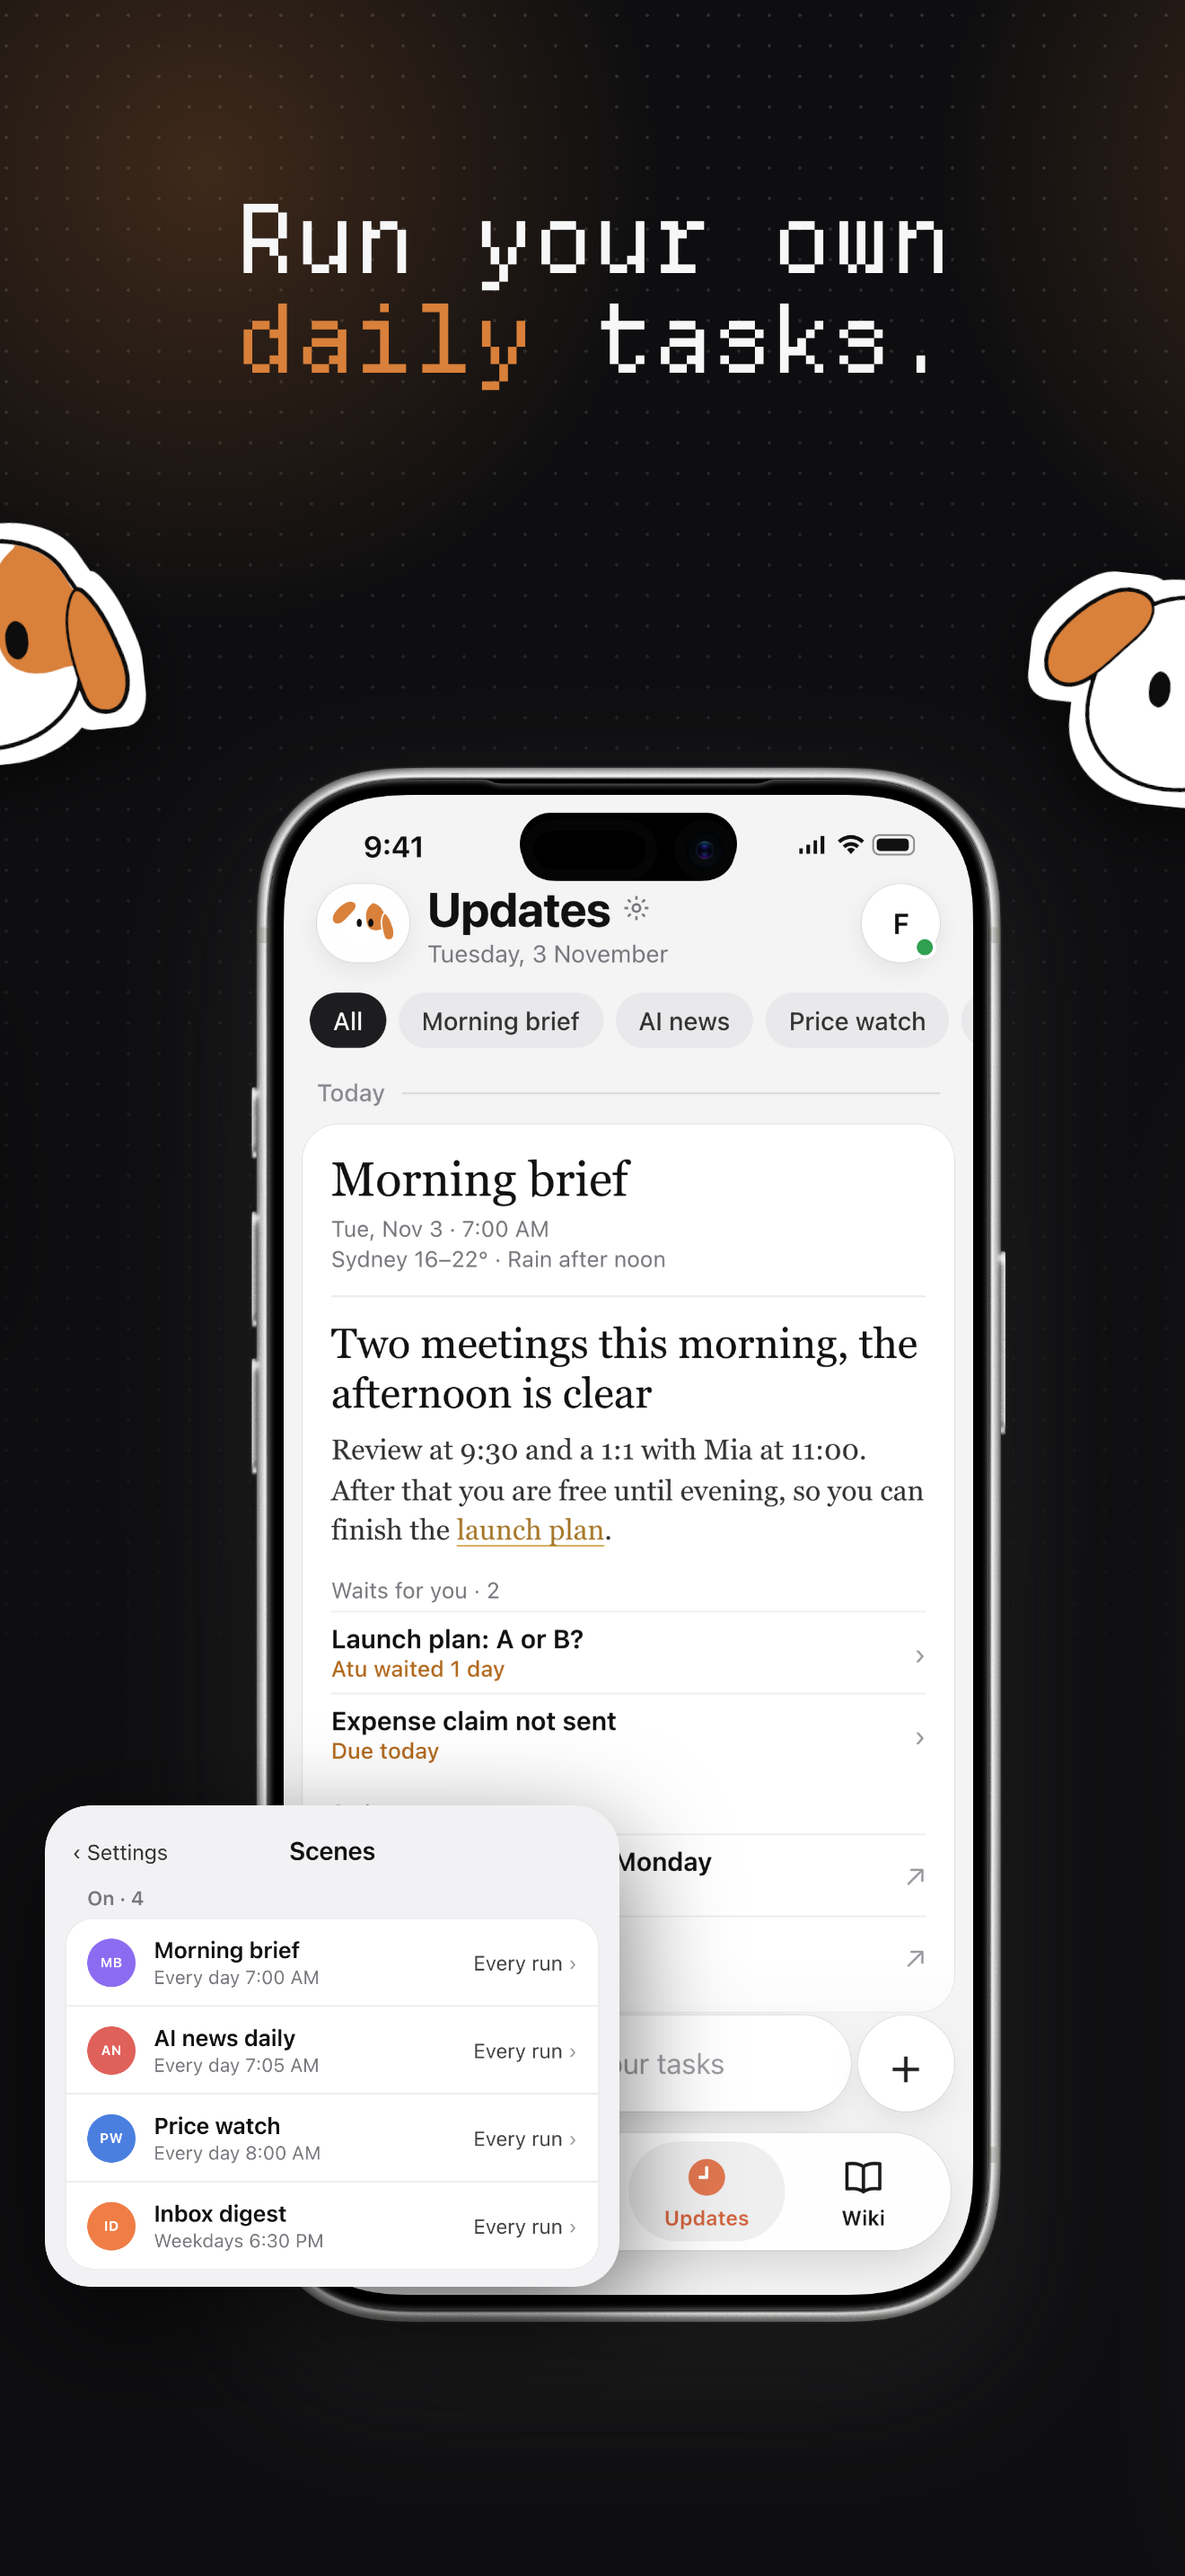
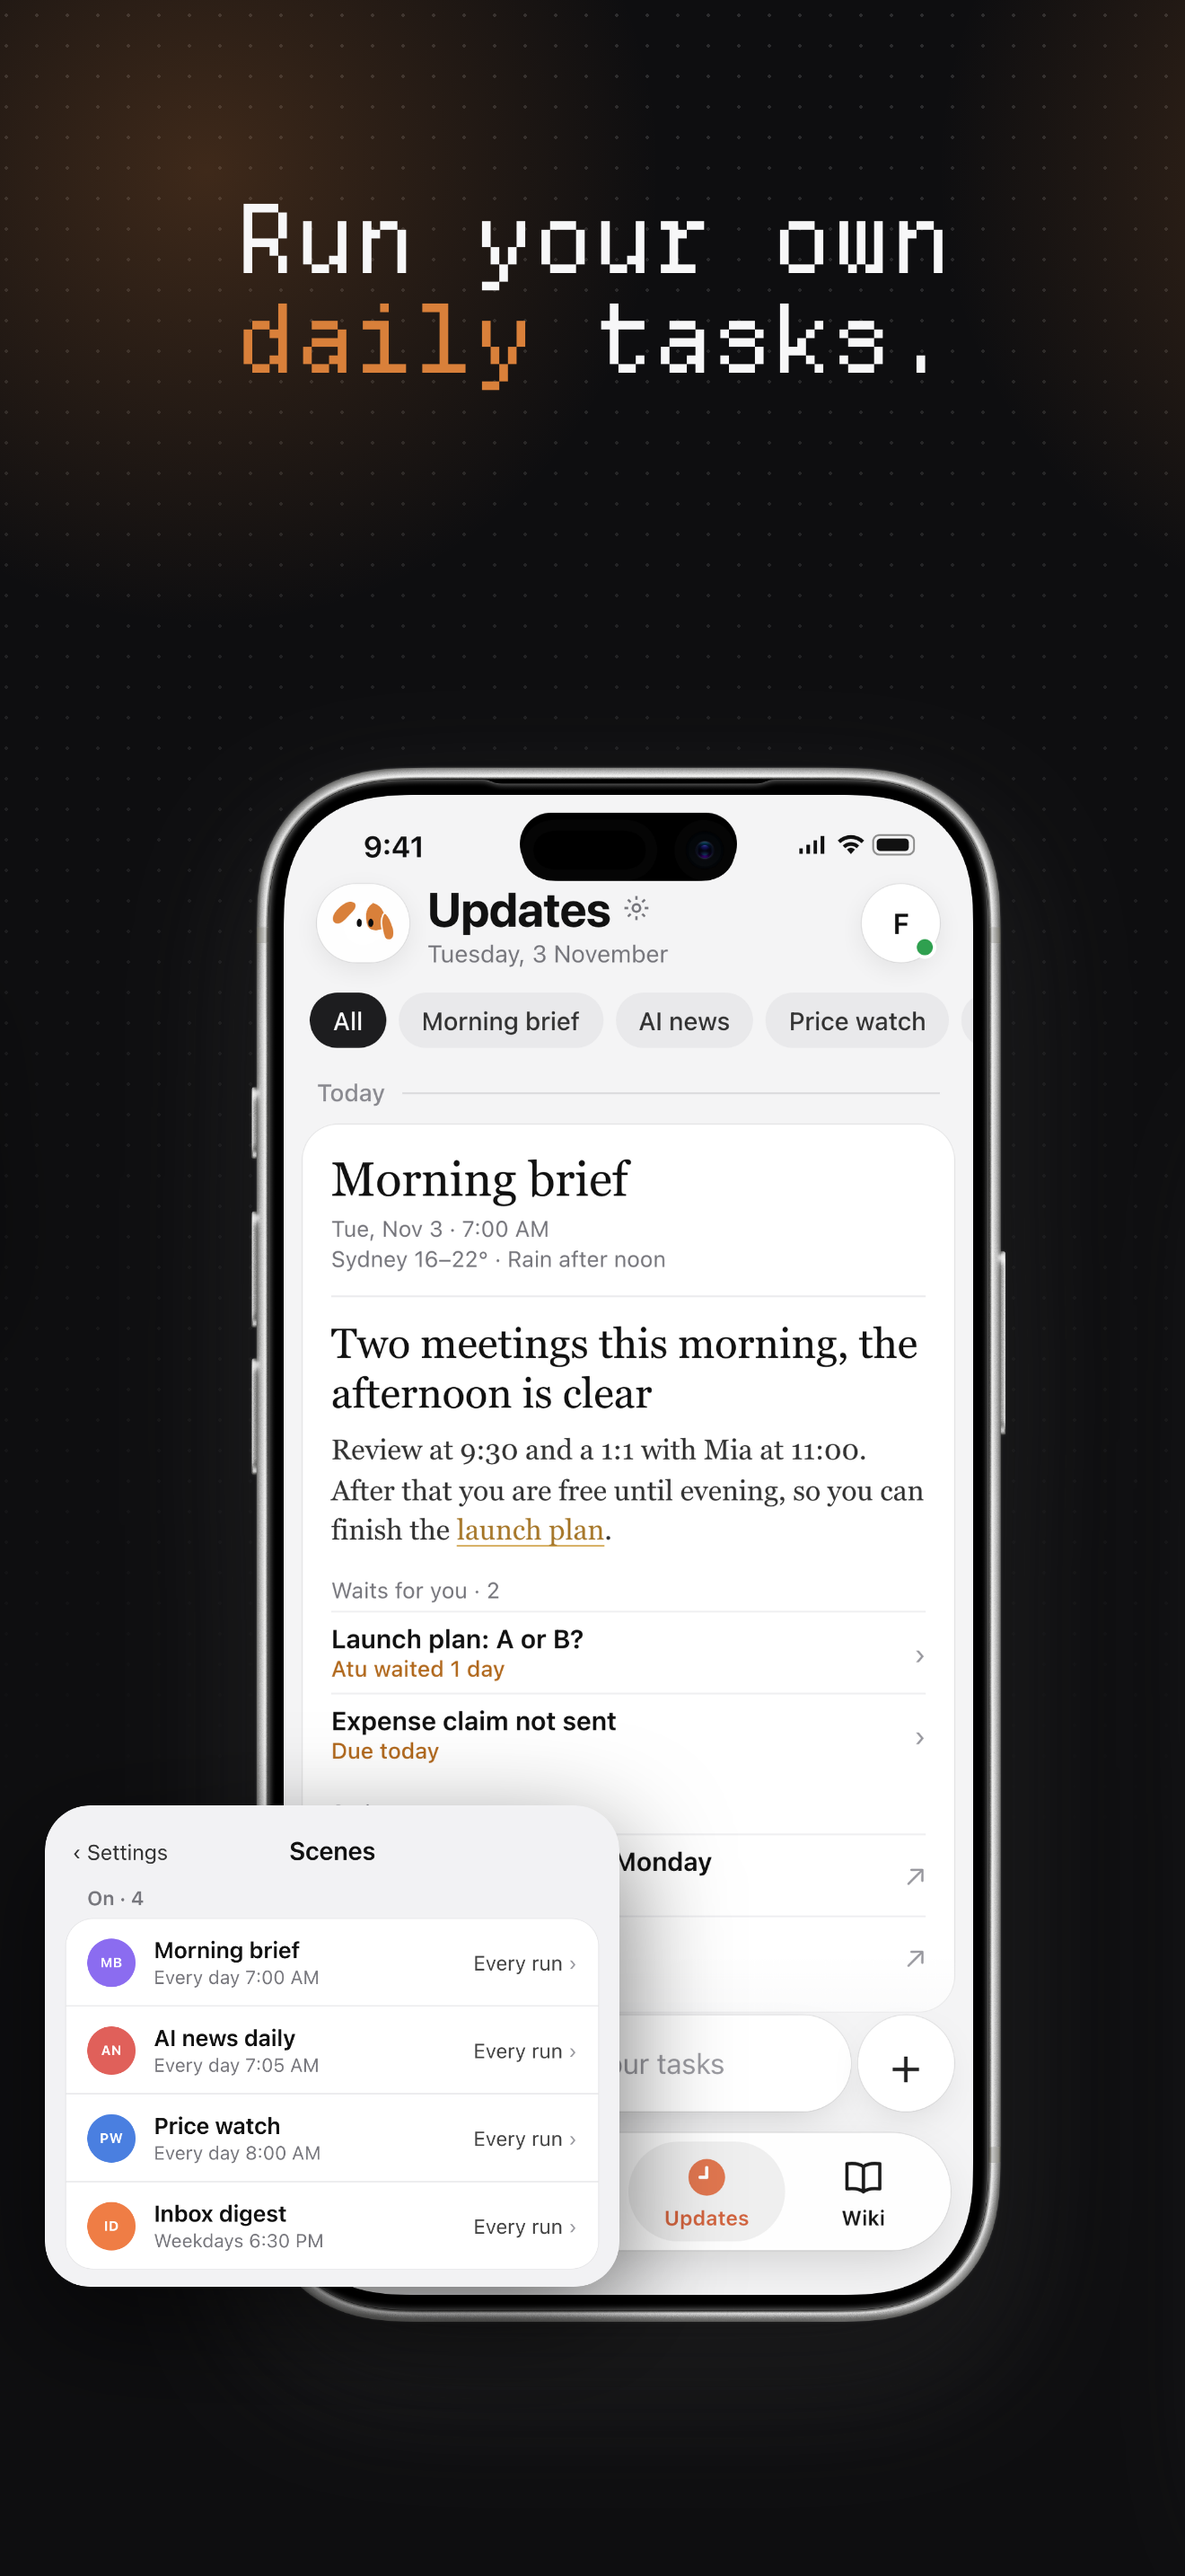
brand: App Store iPhone set without the Atu heads across the cuts of pages 4-6

Changed region(s): [[0.8697, 0.2172, 1.0, 0.3414], [0.0, 0.1862, 0.1242, 0.3103]]

diff --git a/brand/hey-atu-brand-kit/09-generator/appstore-v2/compose_c.py b/brand/hey-atu-brand-kit/09-generator/appstore-v2/compose_c.py
@@ -208,8 +208,8 @@ P7 = ''.join([
     watchs('reply', k + 965, 2320, 540),
 ])
 
-# ---- stickers across cuts (small turns only) ----------------------------------------------
-STICK = ''.join([logo(4 * W - 180, 600, 320, -6), logo(5 * W - 160, 660, 300, 6)])
+# ---- stickers across cuts: none ----------------------------------------------------------
+STICK = ''   # no Atu heads across the cuts (Xinyi 2026-11-08); was logo() at 4W-180 and 5W-160
 
 CSS = f'''
 @font-face{{font-family:"Departure Mono";src:url("{KIT}/07-fonts-and-tokens/fonts/DepartureMono-Regular.ttf")}}

diff --git a/docs/app-store-screenshots/README.md b/docs/app-store-screenshots/README.md
@@ -353,7 +353,7 @@ CapWords 当前第 1 张的文案是 `Learn to speak a new language`，和你截
 | 设备模型（第三轮，弃用） | 第 1 张 3D 手机，第 2 张自己画的 Mac 和设计稿手表，第 4 张宇宙橙边框（侧键看起来像虚线），风格不统一 |
 | 手机模型（上一版） | three.js 渲染的立体 iPhone：银色金属边框（带倒角和厚度）、侧键、黑边、淡淡的玻璃反光，带透视角度。第一版是平面圆角框，Xinyi 觉得不如 Otter 好看，已替换。脚本当时在临时目录（`src/phone3d.html`），没有保留；现在的 3D 手机用 `phone3d-glb.html` |
 | 三端 | 手机左倾 9°、向右转 22°（露出左侧按键）；功能页的手机左右小角度转向；Mac 水平，屏幕里是桌面端设计稿；手表右倾 8°。方案 B 的两块手表一左倾一右倾 |
-| 跨页 | 第 1 张的手机右下角伸进第 2 张；Atu 贴纸横跨第 4、5 张和第 5、6 张的切线（只转几度）。不再有连设备的虚线 |
+| 跨页 | 第 1 张的手机右下角伸进第 2 张；切线上不放 Atu 贴纸（原来横跨第 4、5 张和第 5、6 张，Xinyi 2026-11-08 去掉）。不再有连设备的虚线 |
 | 跑出手机的元素 | 第 3 张的模型卡；第 4 张的待办卡和 Follow up 面板；第 5 张的定时任务卡。都和手机同角度、不旋转 |
 
 - Updates 界面里的新闻改成了虚构条目（`New ferry route opens Monday`、`Fire ban from Saturday`，来源写 `Local news`），不再用真实媒体名。
